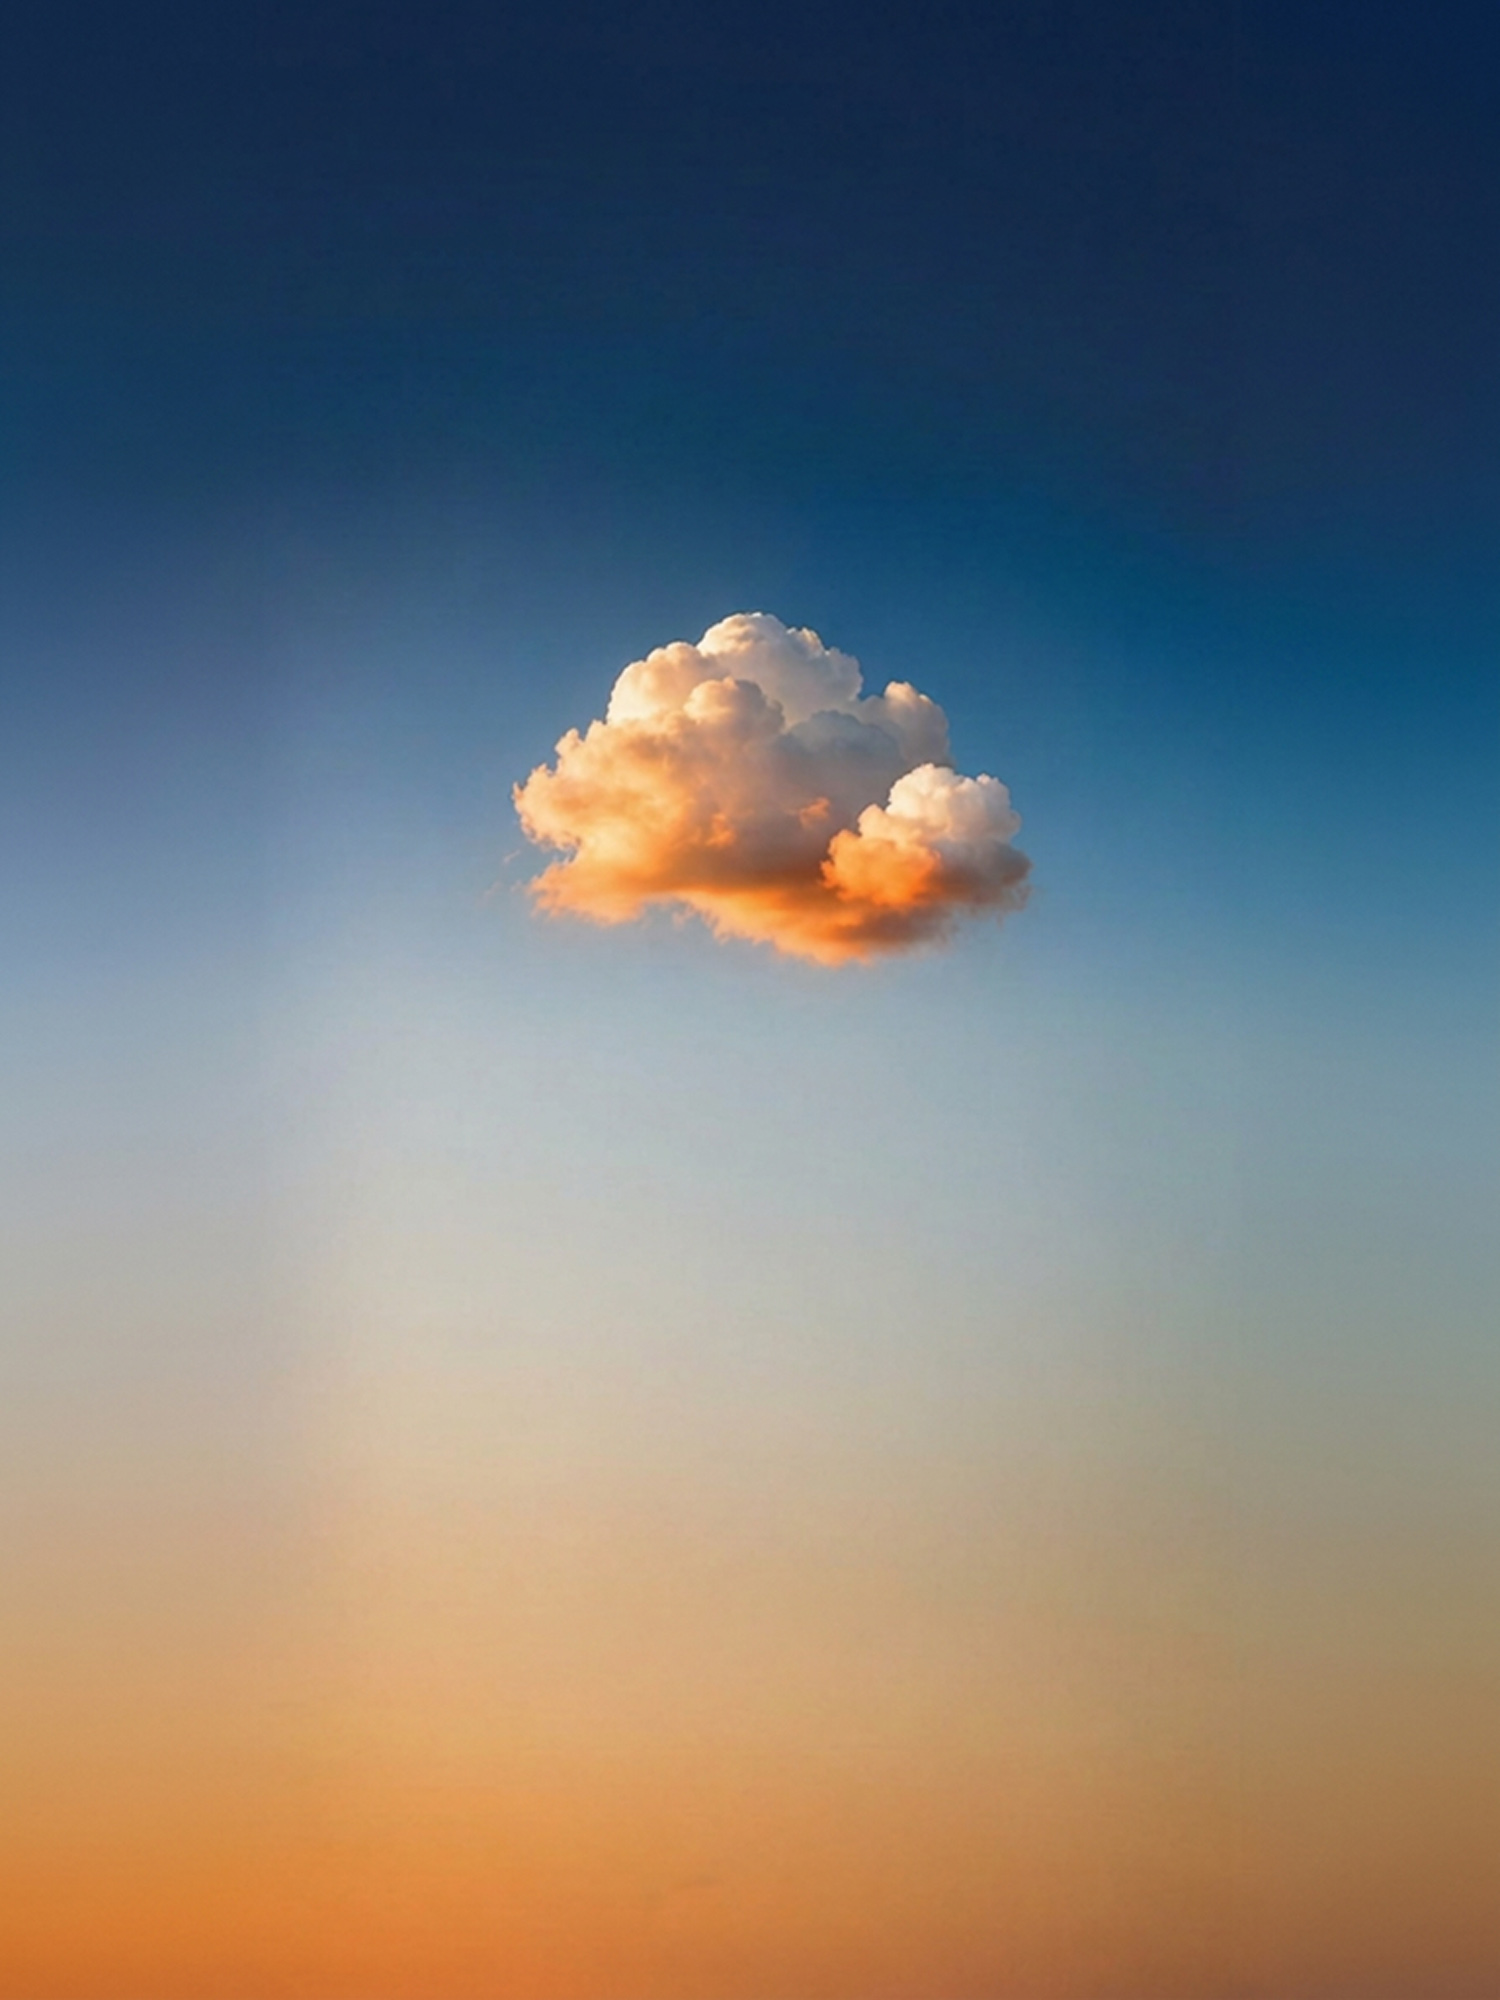
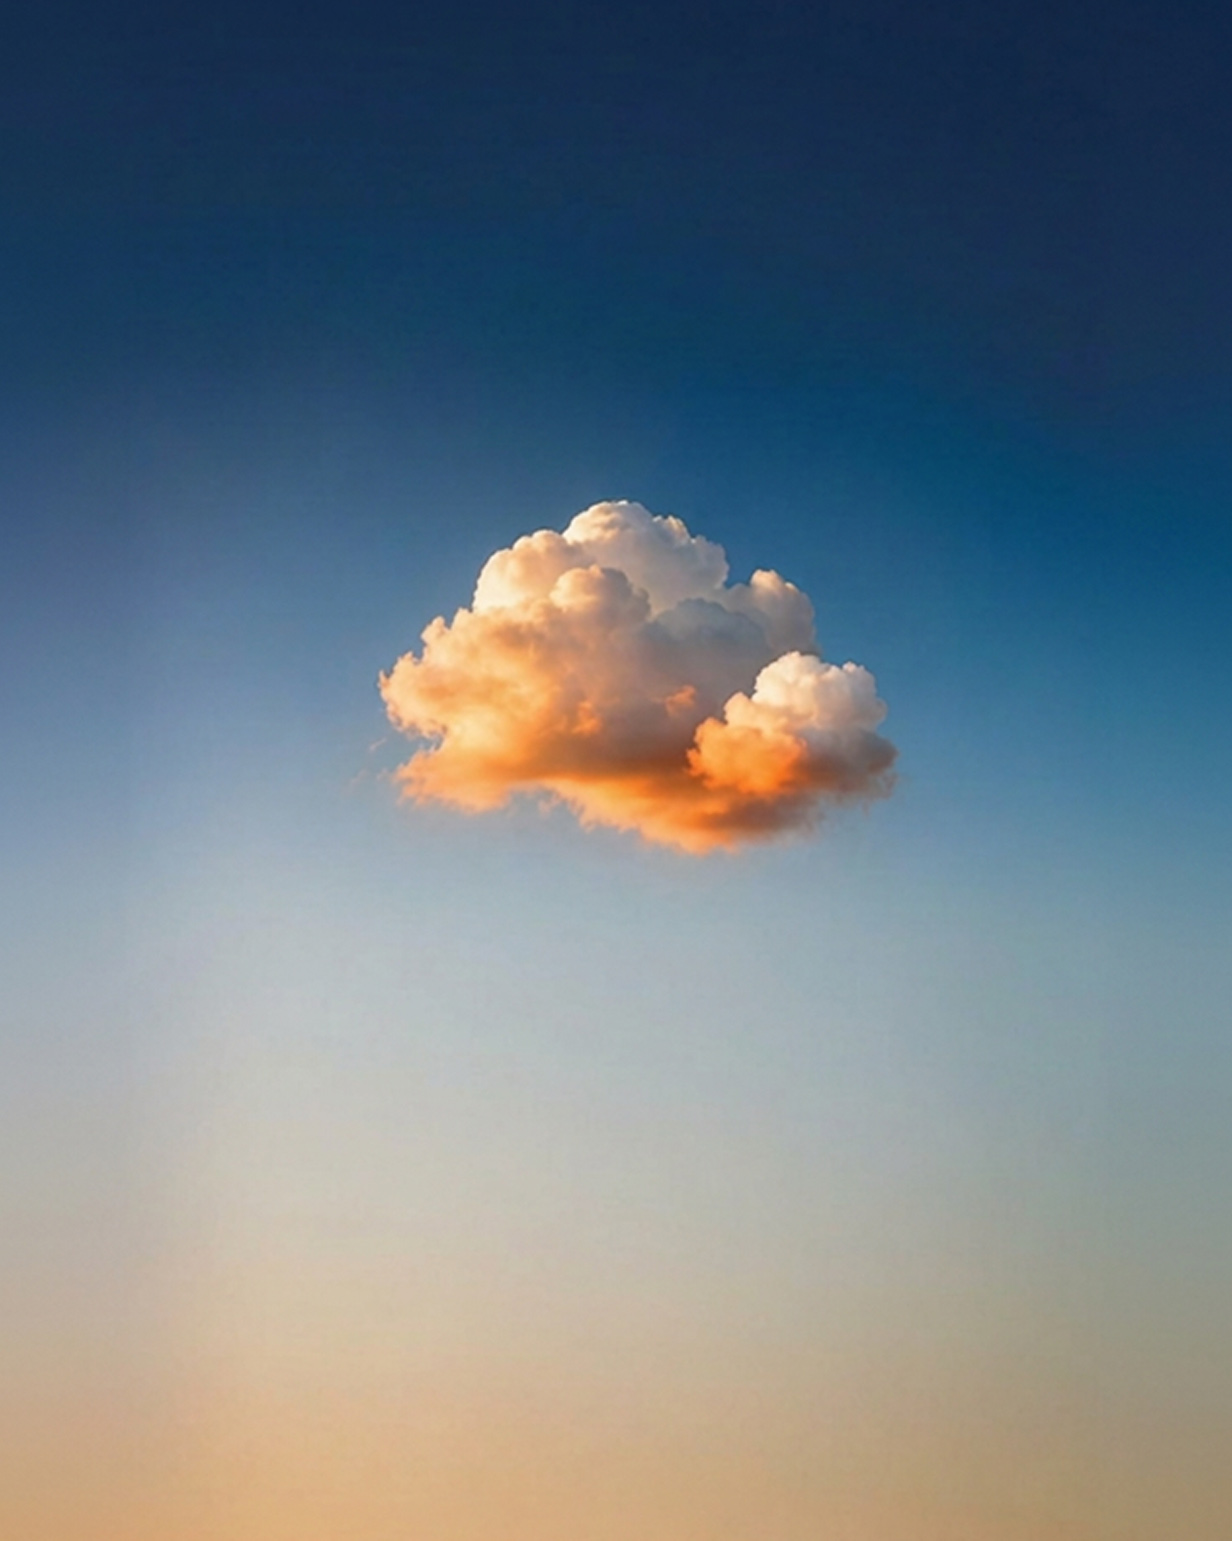
feat: update hero image and layout sizing
Adjust hero section height and image dimensions to improve visual 
presentation. Update the hero image file and refine its CSS object 
position and scaling for better alignment.

diff --git a/src/App.tsx b/src/App.tsx
@@ -257,12 +257,12 @@ export default function App() {
             </motion.div>
           </div>
 
-          <div className="lg:col-span-5 relative h-[45vh] lg:h-[80vh] w-full flex justify-center items-center">
+          <div className="lg:col-span-5 relative h-[55vh] lg:h-[90vh] w-full flex justify-center items-center">
             <motion.div 
               initial={{ opacity: 0, scale: 0.95 }}
               animate={{ opacity: 1, scale: 1 }}
               transition={{ duration: 1.5, ease: [0.16, 1, 0.3, 1] }}
-              className="w-full max-w-[360px] sm:max-w-[400px] h-full max-h-[580px] aspect-[2/3] oval-mask vertical-ellipse-mask overflow-hidden relative shadow-2xl"
+              className="w-full max-w-[455px] sm:max-w-[506px] h-full max-h-[734px] aspect-[2/3] oval-mask vertical-ellipse-mask overflow-hidden relative shadow-2xl"
             >
               <img 
                 src={heroImage}
@@ -281,7 +281,7 @@ export default function App() {
                 }}
                 alt={siteContent.heroImageAlt} 
                 loading="eager"
-                className="w-full h-full object-cover object-bottom lg:object-center scale-105 hover:scale-100 transition-transform duration-1000"
+                className="w-full h-full object-cover object-[center_18%] scale-[1.26] hover:scale-[1.20] transition-transform duration-1000"
               />
               <div className="absolute inset-0 bg-[var(--color-olive-700)]/10 mix-blend-overlay"></div>
             </motion.div>
